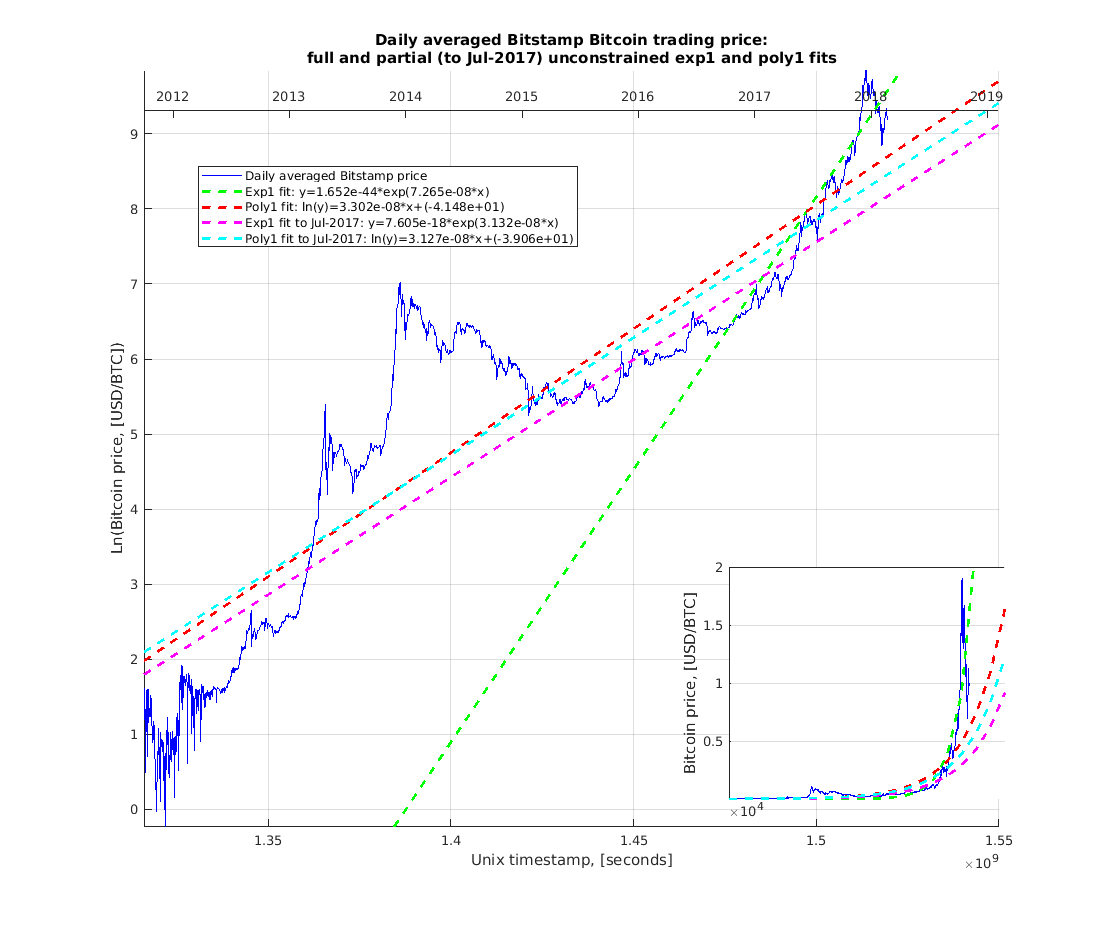
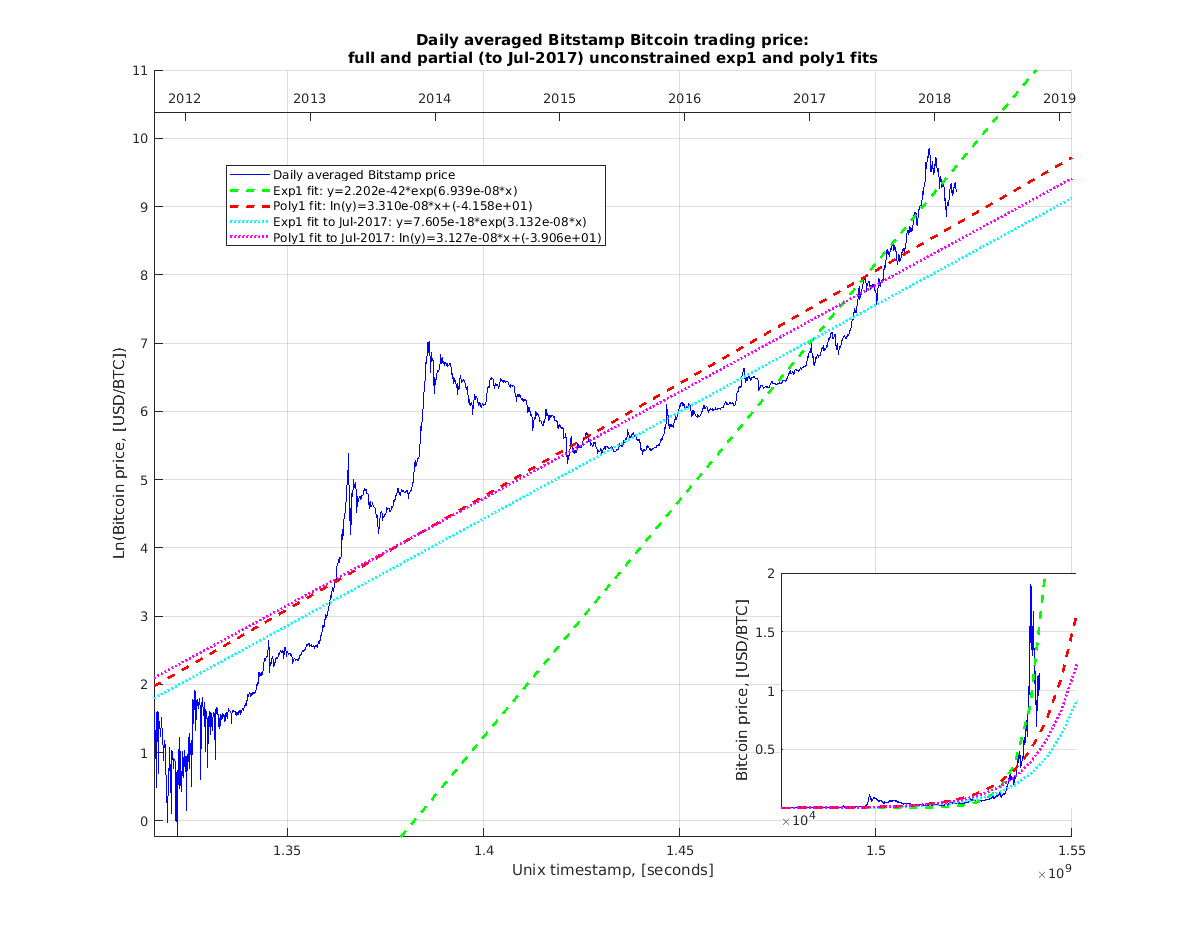
update prices; tweak price figure formatting;

diff --git a/functions/plotTradingStartConstrained.m b/functions/plotTradingStartConstrained.m
@@ -11,6 +11,9 @@ time = btcusdavgprice{:,1};
 timeNorm(:,1) = time(:,1) - timeOfBitstamp;
 timeExt = linspace(minTime, maxTime,20);
 
+minPrice = min(price(:));
+maxPrice = 20000;
+
 % coefficients derived from curve fitting tool, i.e.:
     % y(x)=1*exp(b*x), ln(x)=p1*b + 1
 b = 4.588e-08;
@@ -33,16 +36,18 @@ plot(timeNorm,lnPrice,'b');
 plot(timeExt,lnfitExpExt,'g--','LineWidth',2);
 plot(timeExt,fitPolyExt,'r--','LineWidth',2);
 
-title({'Weekly averaged daily Bitstamp Bitcoin trading price:';'poly1 and exp1 fits constrained through $USD1 at start of trading'})
-xlabel({'Time since start of Bitstamp trading, [seconds]';sprintf('where x=0 at %.3e Unix timestamp',timeOfBitstamp)})
+title({'Daily averaged Bitstamp Bitcoin trading price:';'poly1 and exp1 fits constrained through $USD1 at start of trading'})
+xlabel({'Time since start of Bitstamp trading, [seconds]';sprintf('(where x=0 at %.3e Unix timestamp)',timeOfBitstamp)})
 ylabel('Ln(Bitcoin price, [USD/BTC])')
 legend('Ln(USD/BTC)',...
     sprintf('Constrained exp1 fit: y=1*exp(%.3e*x)',b),...
     sprintf('Constrained poly1 fit: ln(y)=%.3e*x+1',p1));
 
 % axis for years
-ax2 = axes('Position',[ax.Position(1) .88 ax.Position(3) 1e-12],'XAxisLocation','top','Color','none');
+ax2 = axes('Position',[ax.Position(1) .88 ax.Position(3) 1e-12],...
+    'XAxisLocation','top','Color','none');
 ax2.XLim = [2009 2019.1];
+%ax2.YLim = [log(minPrice) log(maxPrice)];
 
 % inset linear plot
 ax3 = axes('Position',[.66 .14 .25 .25],...
@@ -55,6 +60,8 @@ plot(timeExt,fitExpExt,'g--','LineWidth',2);
 plot(timeExt,expfitPolyExt,'r--','LineWidth',2);
 
 set(ax3,'XTick',[],'XLabel',[],'YLabel',[],...
-    'XLim',[minTime maxTime],'YLim',[min(price(:)) 20000]);
- 
+    'XLim',[minTime maxTime],'YLim',[minPrice maxPrice]);
+
+ylabel('Bitcoin price, [USD/BTC]')
+
 end

diff --git a/functions/plotPriceFits.m b/functions/plotPriceFits.m
@@ -1,12 +1,12 @@
-function [ ] = plotPriceFits( btcusdavgdayprice )
+function [ ] = plotPriceFits( btcusdavgprice )
 
 subsetCellEnd = 2103;
 
 % Prepare arrays and tables of times and prices
-time = btcusdavgdayprice{:,1};
-timeJul = btcusdavgdayprice{1:subsetCellEnd,1};
-price = btcusdavgdayprice{:,2};
-priceJul = btcusdavgdayprice{1:subsetCellEnd,2};
+time = btcusdavgprice{:,1};
+timeJul = btcusdavgprice{1:subsetCellEnd,1};
+price = btcusdavgprice{:,2};
+priceJul = btcusdavgprice{1:subsetCellEnd,2};
 lnprice = log(price);
 lnpriceJul = log(priceJul);
 
@@ -37,14 +37,14 @@ hold on
 grid on
 
 ax = gca;
-ylim([min(lnprice(:)) max(lnprice(:))]);
+ylim([min(lnprice(:)) 11]);
 xlim([minTime maxTime]);
 
 plot(time,lnprice,'b');
 plot(timeExt,lnfitExpExt,'g--','LineWidth',2);
 plot(timeExt,fitPolyExt,'r--','LineWidth',2);
-plot(timeExt,lnfitExpJulExt,'m--','LineWidth',2);
-plot(timeExt,fitPolyJulExt,'c--','LineWidth',2);
+plot(timeExt,lnfitExpJulExt,'c:','LineWidth',2);
+plot(timeExt,fitPolyJulExt,'m:','LineWidth',2);
 
 title({'Daily averaged Bitstamp Bitcoin trading price:';...
     'full and partial (to Jul-2017) unconstrained exp1 and poly1 fits'});
@@ -73,8 +73,8 @@ grid on;
 plot(time,price,'b');
 plot(timeExt,fitExpExt,'g--','LineWidth',2);
 plot(timeExt,expfitPolyExt,'r--','LineWidth',2);
-plot(timeExt,fitExpJulExt,'m--','LineWidth',2);
-plot(timeExt,expfitPolyJulExt,'c--','LineWidth',2);
+plot(timeExt,fitExpJulExt,'c:','LineWidth',2);
+plot(timeExt,expfitPolyJulExt,'m:','LineWidth',2);
 
 set(ax3,'XTick',[],'XLabel',[],...
     'XLim',[minTime maxTime],'YLim',[minPrice 20000]);
